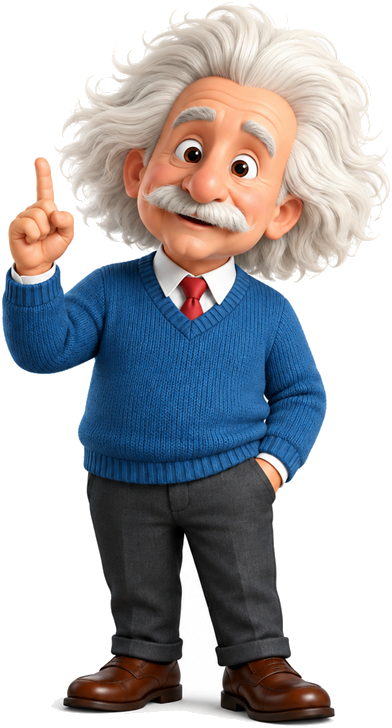
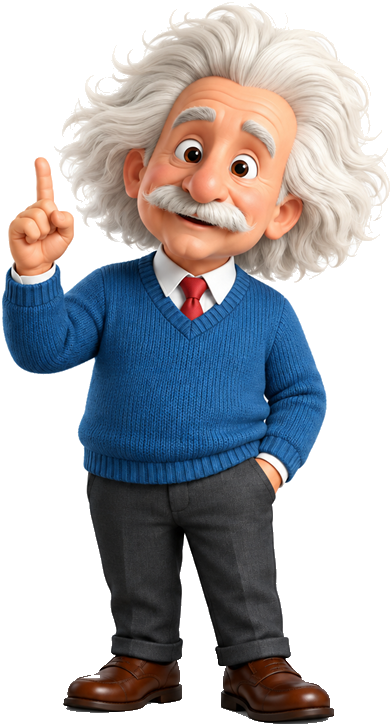
Add the why section and the closing CTA with footer
Two sections close out the page.

"04 / Why SketchUp Intelligence" is deliberately editorial rather than boxed -
a rule above each item, an oversized muted number, then the heading and copy -
so it reads differently to the capability cards without leaving the design
language. The rule and number take the brand blue on hover.

The closing CTA is the first dark panel on the site, which gives the page an
ending. The mascot stands beside the headline, picking up the "as brilliant as
Mr. Albert" line, and the footer sits inside the same panel with the brand mark
inverted to white. Both calls to action point at #get-started, so they open the
existing enquiry modal.

Fixed along the way: the mascot cutout still carried its original ground shadow
and a patch of white sealed between the legs. Both were invisible against the
light hero but obvious on the dark panel. Cleared with a flood seeded from the
transparent area below the knees, so enclosed highlights inside the shoes could
not be punched out and the light hair above was never at risk. Depth now comes
from a CSS drop-shadow instead.

Verified: no horizontal overflow at 320-900, reveal still cascading, modal
16/16, and the mascot checked over both the light hero and the dark panel.

diff --git a/styles.css b/styles.css
@@ -647,6 +647,207 @@ h1 em {
   color: #5c6672;
 }
 
+/* ---------------- 04 · why ---------------- */
+
+.why {
+  padding: clamp(64px, 8vw, 128px) 0 clamp(72px, 9vw, 136px);
+  background: #fff;
+}
+
+.why .section-title em { font-style: normal; color: var(--blue); }
+
+.why-grid {
+  display: grid;
+  grid-template-columns: repeat(4, minmax(0, 1fr));
+  gap: clamp(20px, 2.4vw, 42px);
+  margin-top: clamp(40px, 4.6vw, 72px);
+}
+
+/* editorial rather than boxed, so it reads differently to the
+   capability cards without leaving the design language */
+.why-item {
+  padding-top: clamp(18px, 1.8vw, 28px);
+  border-top: 2px solid #dde7f4;
+  transition: border-color .25s ease;
+}
+
+.why-item:hover { border-top-color: var(--blue); }
+
+.why-num {
+  display: block;
+  font-family: "Archivo", sans-serif;
+  font-weight: 800;
+  font-size: clamp(28px, 2.6vw, 42px);
+  line-height: 1;
+  color: #c3d6ee;
+  transition: color .25s ease;
+}
+
+.why-item:hover .why-num { color: var(--blue); }
+
+.why-item h3 {
+  margin: clamp(16px, 1.6vw, 26px) 0 0;
+  font-family: "Archivo", sans-serif;
+  font-weight: 700;
+  font-size: clamp(15px, 1.2vw, 19px);
+  line-height: 1.3;
+  letter-spacing: .3px;
+  text-transform: uppercase;
+  color: #11161d;
+}
+
+.why-item p {
+  margin: clamp(9px, .9vw, 13px) 0 0;
+  font-size: clamp(14px, 1.02vw, 16px);
+  line-height: 1.6;
+  color: #5c6672;
+}
+
+/* ---------------- final CTA + footer ---------------- */
+
+.closing {
+  position: relative;
+  overflow: hidden;
+  background: linear-gradient(135deg, #072347 0%, #0a3c7d 55%, #0b4fa2 100%);
+  color: #fff;
+}
+
+.closing-glow {
+  position: absolute;
+  top: -40%;
+  left: 40%;
+  width: min(900px, 80vw);
+  aspect-ratio: 1;
+  border-radius: 50%;
+  background: radial-gradient(circle, rgba(120, 180, 255, .20) 0%, rgba(120, 180, 255, 0) 68%);
+  pointer-events: none;
+}
+
+.closing-grid {
+  position: relative;
+  display: grid;
+  grid-template-columns: minmax(0, 1fr) auto;
+  gap: clamp(24px, 3vw, 64px);
+  align-items: end;
+  padding-top: clamp(64px, 7.5vw, 120px);
+}
+
+.closing-copy { padding-bottom: clamp(32px, 4vw, 64px); }
+
+.closing h2 {
+  margin: 0;
+  max-width: 20ch;
+  font-family: "Archivo", sans-serif;
+  font-weight: 800;
+  font-size: clamp(28px, 3.6vw, 58px);
+  line-height: 1.08;
+  letter-spacing: clamp(-1.2px, -.1vw, -.5px);
+  text-transform: uppercase;
+}
+
+.closing h2 em {
+  display: block;
+  font-style: normal;
+  color: #8fc0f7;
+}
+
+.closing-copy p {
+  margin: clamp(18px, 2vw, 28px) 0 0;
+  max-width: 46ch;
+  font-size: clamp(15px, 1.2vw, 20px);
+  line-height: 1.6;
+  color: #c2d8f2;
+}
+
+.closing-btn {
+  display: inline-flex;
+  align-items: center;
+  justify-content: center;
+  gap: 12px;
+  height: 58px;
+  margin-top: clamp(26px, 2.8vw, 40px);
+  padding: 0 36px;
+  border-radius: 999px;
+  background: #fff;
+  color: var(--blue);
+  font-size: 16px;
+  font-weight: 700;
+  transition: transform .2s ease, box-shadow .2s ease, background-color .2s ease;
+}
+
+.closing-btn:hover {
+  background: #eaf2fd;
+  transform: translateY(-2px);
+  box-shadow: 0 16px 34px rgba(0, 0, 0, .26);
+}
+
+.closing-btn svg { width: 19px; height: 19px; stroke-width: 2; }
+
+.closing-mascot {
+  display: block;
+  width: clamp(170px, 19vw, 300px);
+  align-self: end;
+  filter: drop-shadow(0 22px 40px rgba(0, 0, 0, .35));
+}
+
+.site-footer {
+  position: relative;
+  border-top: 1px solid rgba(255, 255, 255, .16);
+}
+
+.site-footer .shell {
+  display: flex;
+  flex-wrap: wrap;
+  align-items: center;
+  gap: 16px clamp(20px, 3vw, 48px);
+  padding-top: 26px;
+  padding-bottom: 26px;
+}
+
+/* the mark is a solid blue PNG; invert it to sit on the dark panel */
+.site-footer .logo {
+  font-size: 19px;
+  gap: 10px;
+  min-height: 44px;
+  color: #fff;
+  margin-right: auto;
+}
+
+.site-footer .logo img {
+  width: 34px;
+  height: 34px;
+  filter: brightness(0) invert(1);
+}
+
+.site-footer .logo-text span { color: #8fc0f7; }
+
+.footer-nav {
+  display: flex;
+  flex-wrap: wrap;
+  gap: 10px clamp(16px, 2vw, 32px);
+}
+
+.footer-nav a {
+  display: inline-flex;
+  align-items: center;
+  min-height: 44px;
+  font-size: 14.5px;
+  font-weight: 500;
+  color: #c2d8f2;
+  transition: color .2s ease;
+}
+
+.footer-nav a:hover { color: #fff; }
+
+.footer-note {
+  margin: 0;
+  width: 100%;
+  padding-top: 14px;
+  border-top: 1px solid rgba(255, 255, 255, .12);
+  font-size: 13px;
+  color: #93b3dc;
+}
+
 /* ---------------- scroll reveal ---------------- */
 
 /* Scoped to .js-reveal, which an inline script sets. Without JS the
@@ -665,12 +866,30 @@ h1 em {
 @media (max-width: 1024px) {
   .intro-grid { grid-template-columns: 1fr; }
   .fgrid { grid-template-columns: repeat(2, minmax(0, 1fr)); }
+  .why-grid { grid-template-columns: repeat(2, minmax(0, 1fr)); }
   .intro-mark { width: 220px; opacity: .04; }
+}
+
+@media (max-width: 860px) {
+  /* mascot would squeeze the headline below this, so he steps aside */
+  .closing-grid { grid-template-columns: 1fr; }
+  .closing-mascot {
+    justify-self: end;
+    width: clamp(150px, 34vw, 230px);
+    margin-top: -20px;
+  }
+  .closing-copy { padding-bottom: 0; }
+  .closing h2 { max-width: none; }
 }
 
 @media (max-width: 680px) {
   .fgrid { grid-template-columns: 1fr; }
   .claims { grid-template-columns: 1fr; }
+  .why-grid { grid-template-columns: 1fr; gap: 0; }
+  .why-item { padding-bottom: clamp(18px, 2vw, 26px); }
+
+  .site-footer .logo { margin-right: 0; width: 100%; }
+  .footer-nav { width: 100%; }
 }
 
 @media (max-width: 420px) {
@@ -681,6 +900,7 @@ h1 em {
   .js-reveal [data-reveal] { transition: none; opacity: 1; transform: none; }
   .fcard, .claim { transition: background-color .2s ease; }
   .fcard:hover, .claim:hover { transform: none; box-shadow: none; }
+  .closing-btn:hover { transform: none; }
 }
 
 /* ============================================================

diff --git a/index.html b/index.html
@@ -196,6 +196,79 @@
     </div>
   </section>
 
+  <!-- ===================== 04 · why ===================== -->
+  <section class="why" id="why">
+    <div class="shell">
+      <p class="section-eyebrow" data-reveal><i class="dash"></i>04 / Why SketchUp Intelligence</p>
+      <h2 class="section-title" data-reveal>Spend less time modeling. <em>More time designing.</em></h2>
+
+      <div class="why-grid">
+        <article class="why-item" data-reveal>
+          <span class="why-num">01</span>
+          <h3>Faster Workflows</h3>
+          <p>Streamline repetitive modeling and explore more design options.</p>
+        </article>
+
+        <article class="why-item" data-reveal>
+          <span class="why-num">02</span>
+          <h3>Greater Design Freedom</h3>
+          <p>Create distinctive geometries, furniture, and architectural spaces.</p>
+        </article>
+
+        <article class="why-item" data-reveal>
+          <span class="why-num">03</span>
+          <h3>AI-Assisted Review</h3>
+          <p>Identify potential design issues and opportunities for improvement.</p>
+        </article>
+
+        <article class="why-item" data-reveal>
+          <span class="why-num">04</span>
+          <h3>Creative Control</h3>
+          <p>Fine-tune your generated models directly within SketchUp.</p>
+        </article>
+      </div>
+    </div>
+  </section>
+
+  <!-- ===================== final CTA + footer ===================== -->
+  <section class="closing" id="start">
+    <span class="closing-glow" aria-hidden="true"></span>
+
+    <div class="shell closing-grid">
+      <div class="closing-copy">
+        <h2 data-reveal>
+          It's time to give your SketchUp some extra brains.
+          <em>Let's make it as brilliant as Mr. Albert.</em>
+        </h2>
+        <p data-reveal>Experience a smarter way to create, model, and design.</p>
+        <a class="closing-btn" data-reveal href="#get-started">
+          Get Started
+          <svg viewBox="0 0 24 24" aria-hidden="true"><path d="M4 12h15M13 6l6 6-6 6" /></svg>
+        </a>
+      </div>
+
+      <img class="closing-mascot" src="assets/einstein.png" alt="" aria-hidden="true" />
+    </div>
+
+    <footer class="site-footer">
+      <div class="shell">
+        <a class="logo" href="#">
+          <img src="assets/logo.png" alt="" />
+          <span class="logo-text">SKETCHUP <span>INTELLIGENCE</span></span>
+        </a>
+
+        <nav class="footer-nav" aria-label="Footer">
+          <a href="#about">About</a>
+          <a href="#capabilities">Capabilities</a>
+          <a href="#why">Why Us</a>
+          <a href="#get-started">Get Started</a>
+        </nav>
+
+        <p class="footer-note">&copy; 2026 SketchUp Intelligence. All rights reserved.</p>
+      </div>
+    </footer>
+  </section>
+
   <!-- ===================== enquiry modal ===================== -->
   <div class="modal" id="contact-modal" hidden>
     <div class="modal-backdrop" data-close></div>
